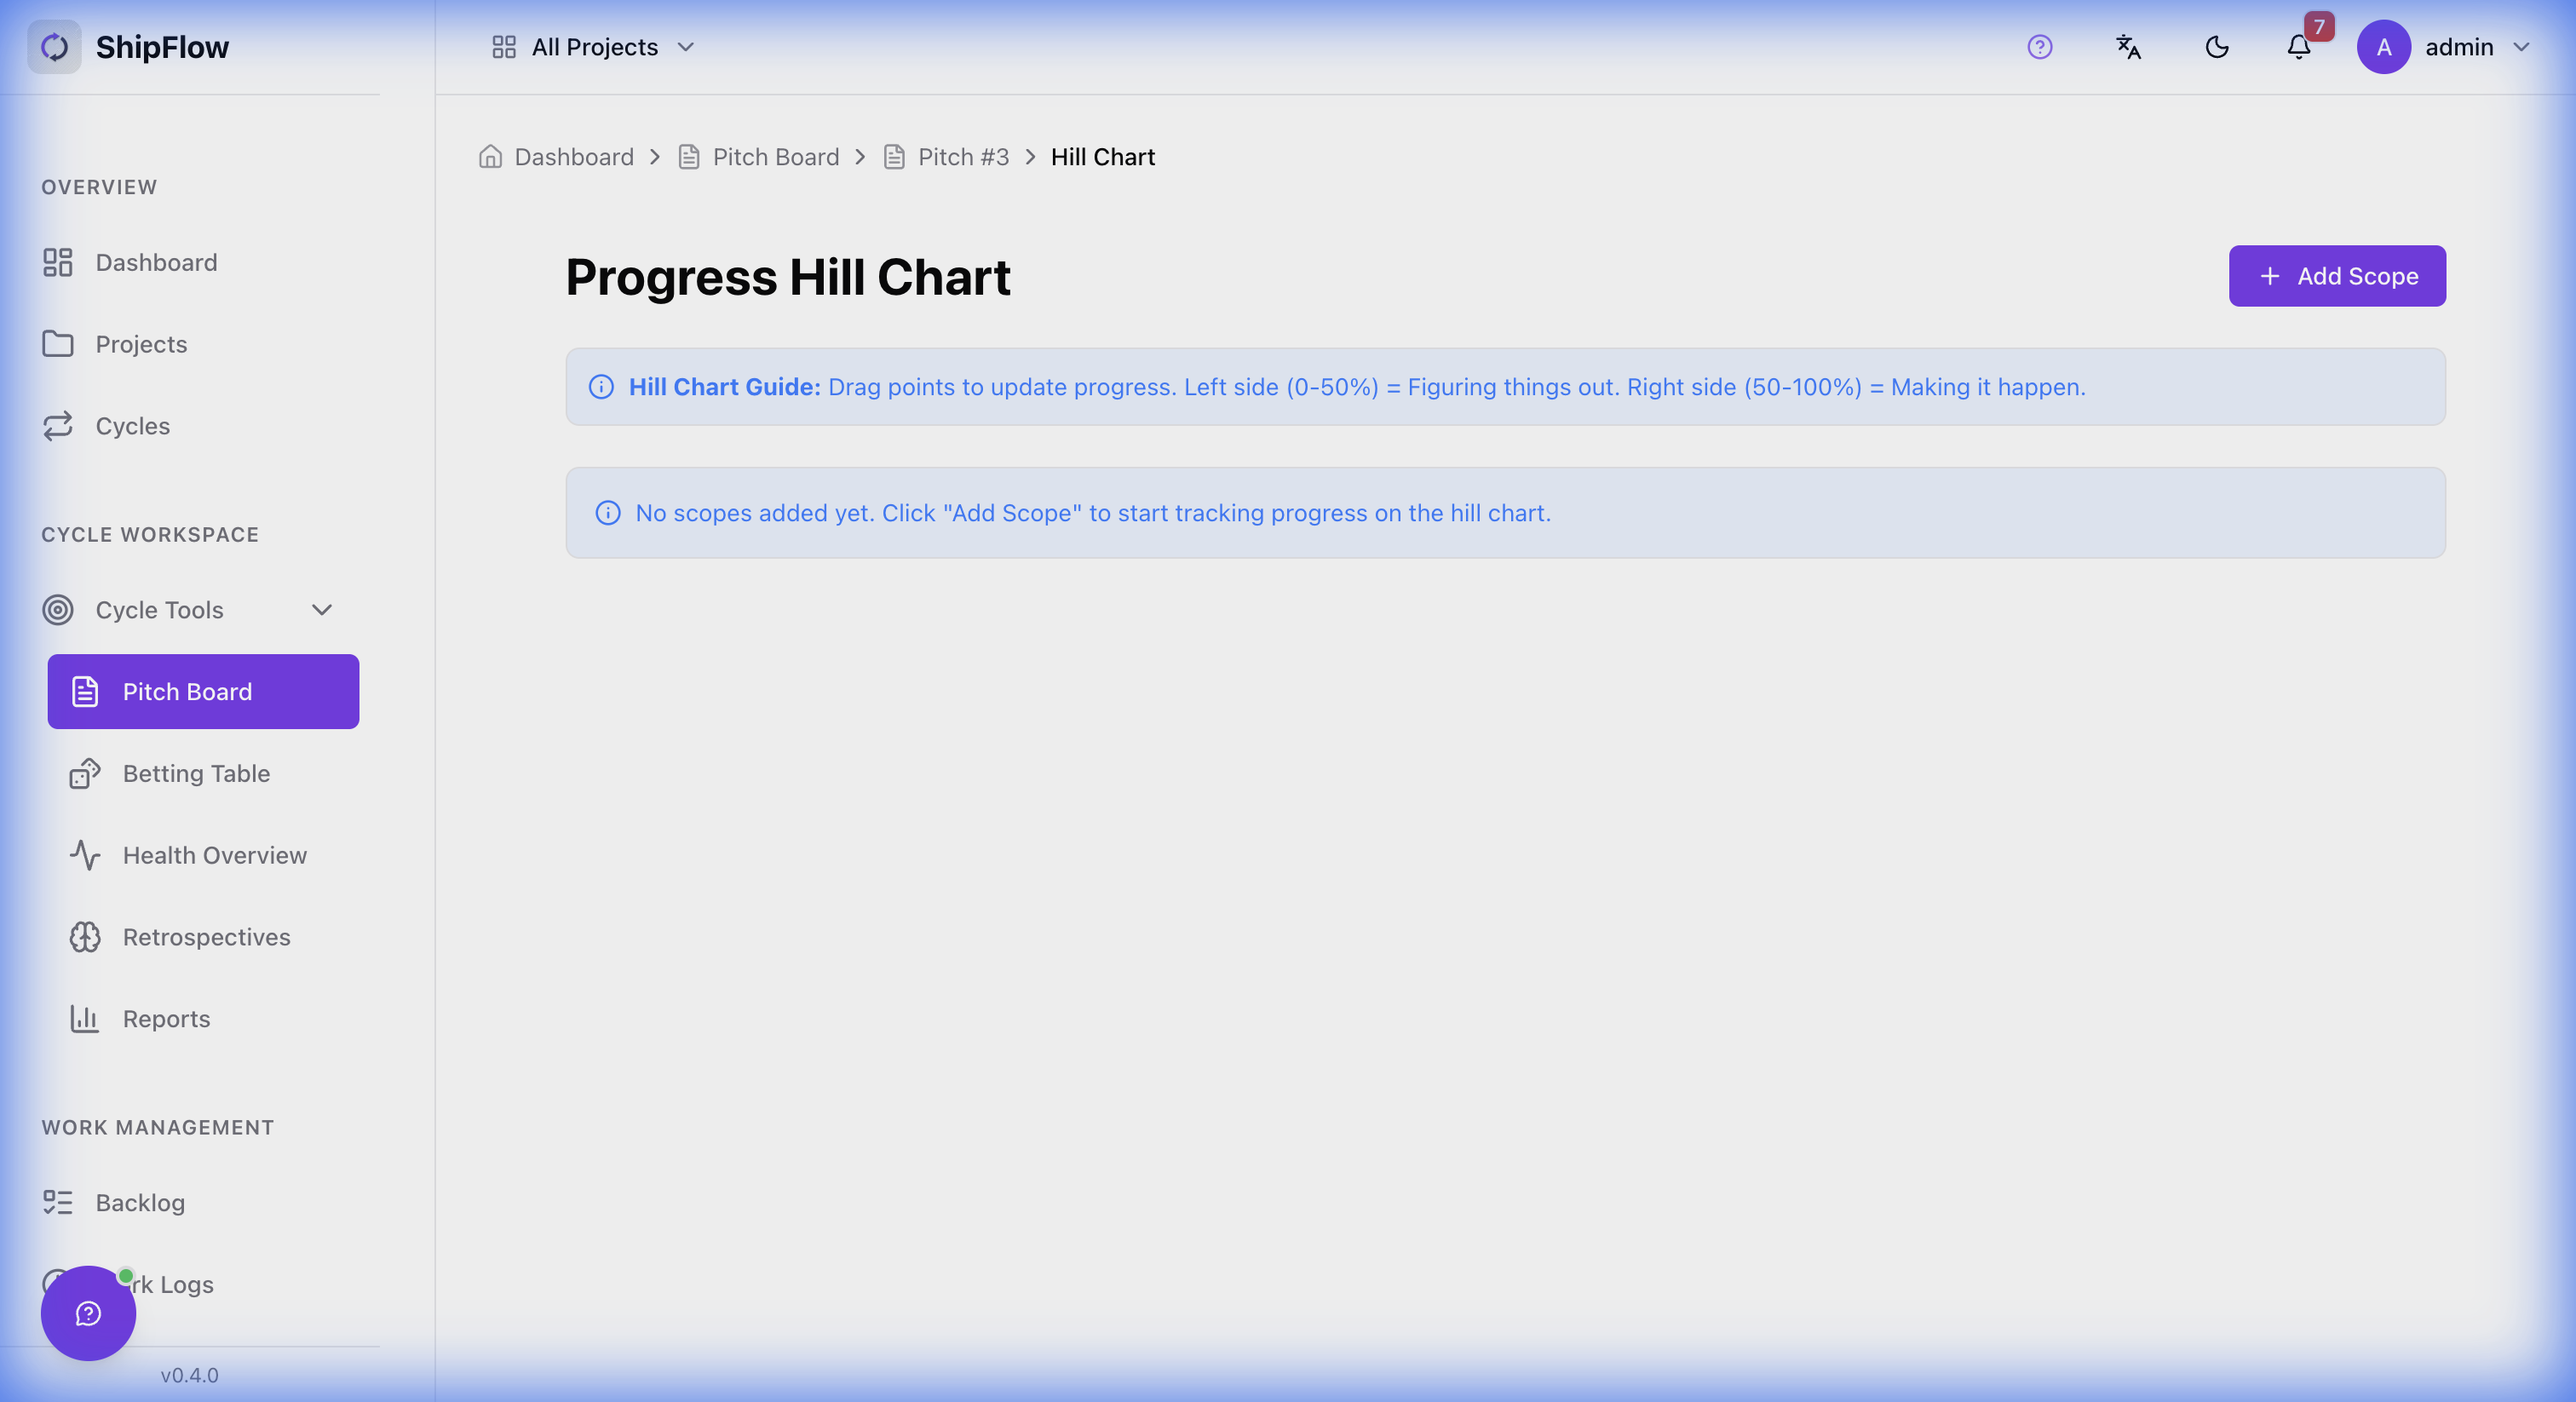
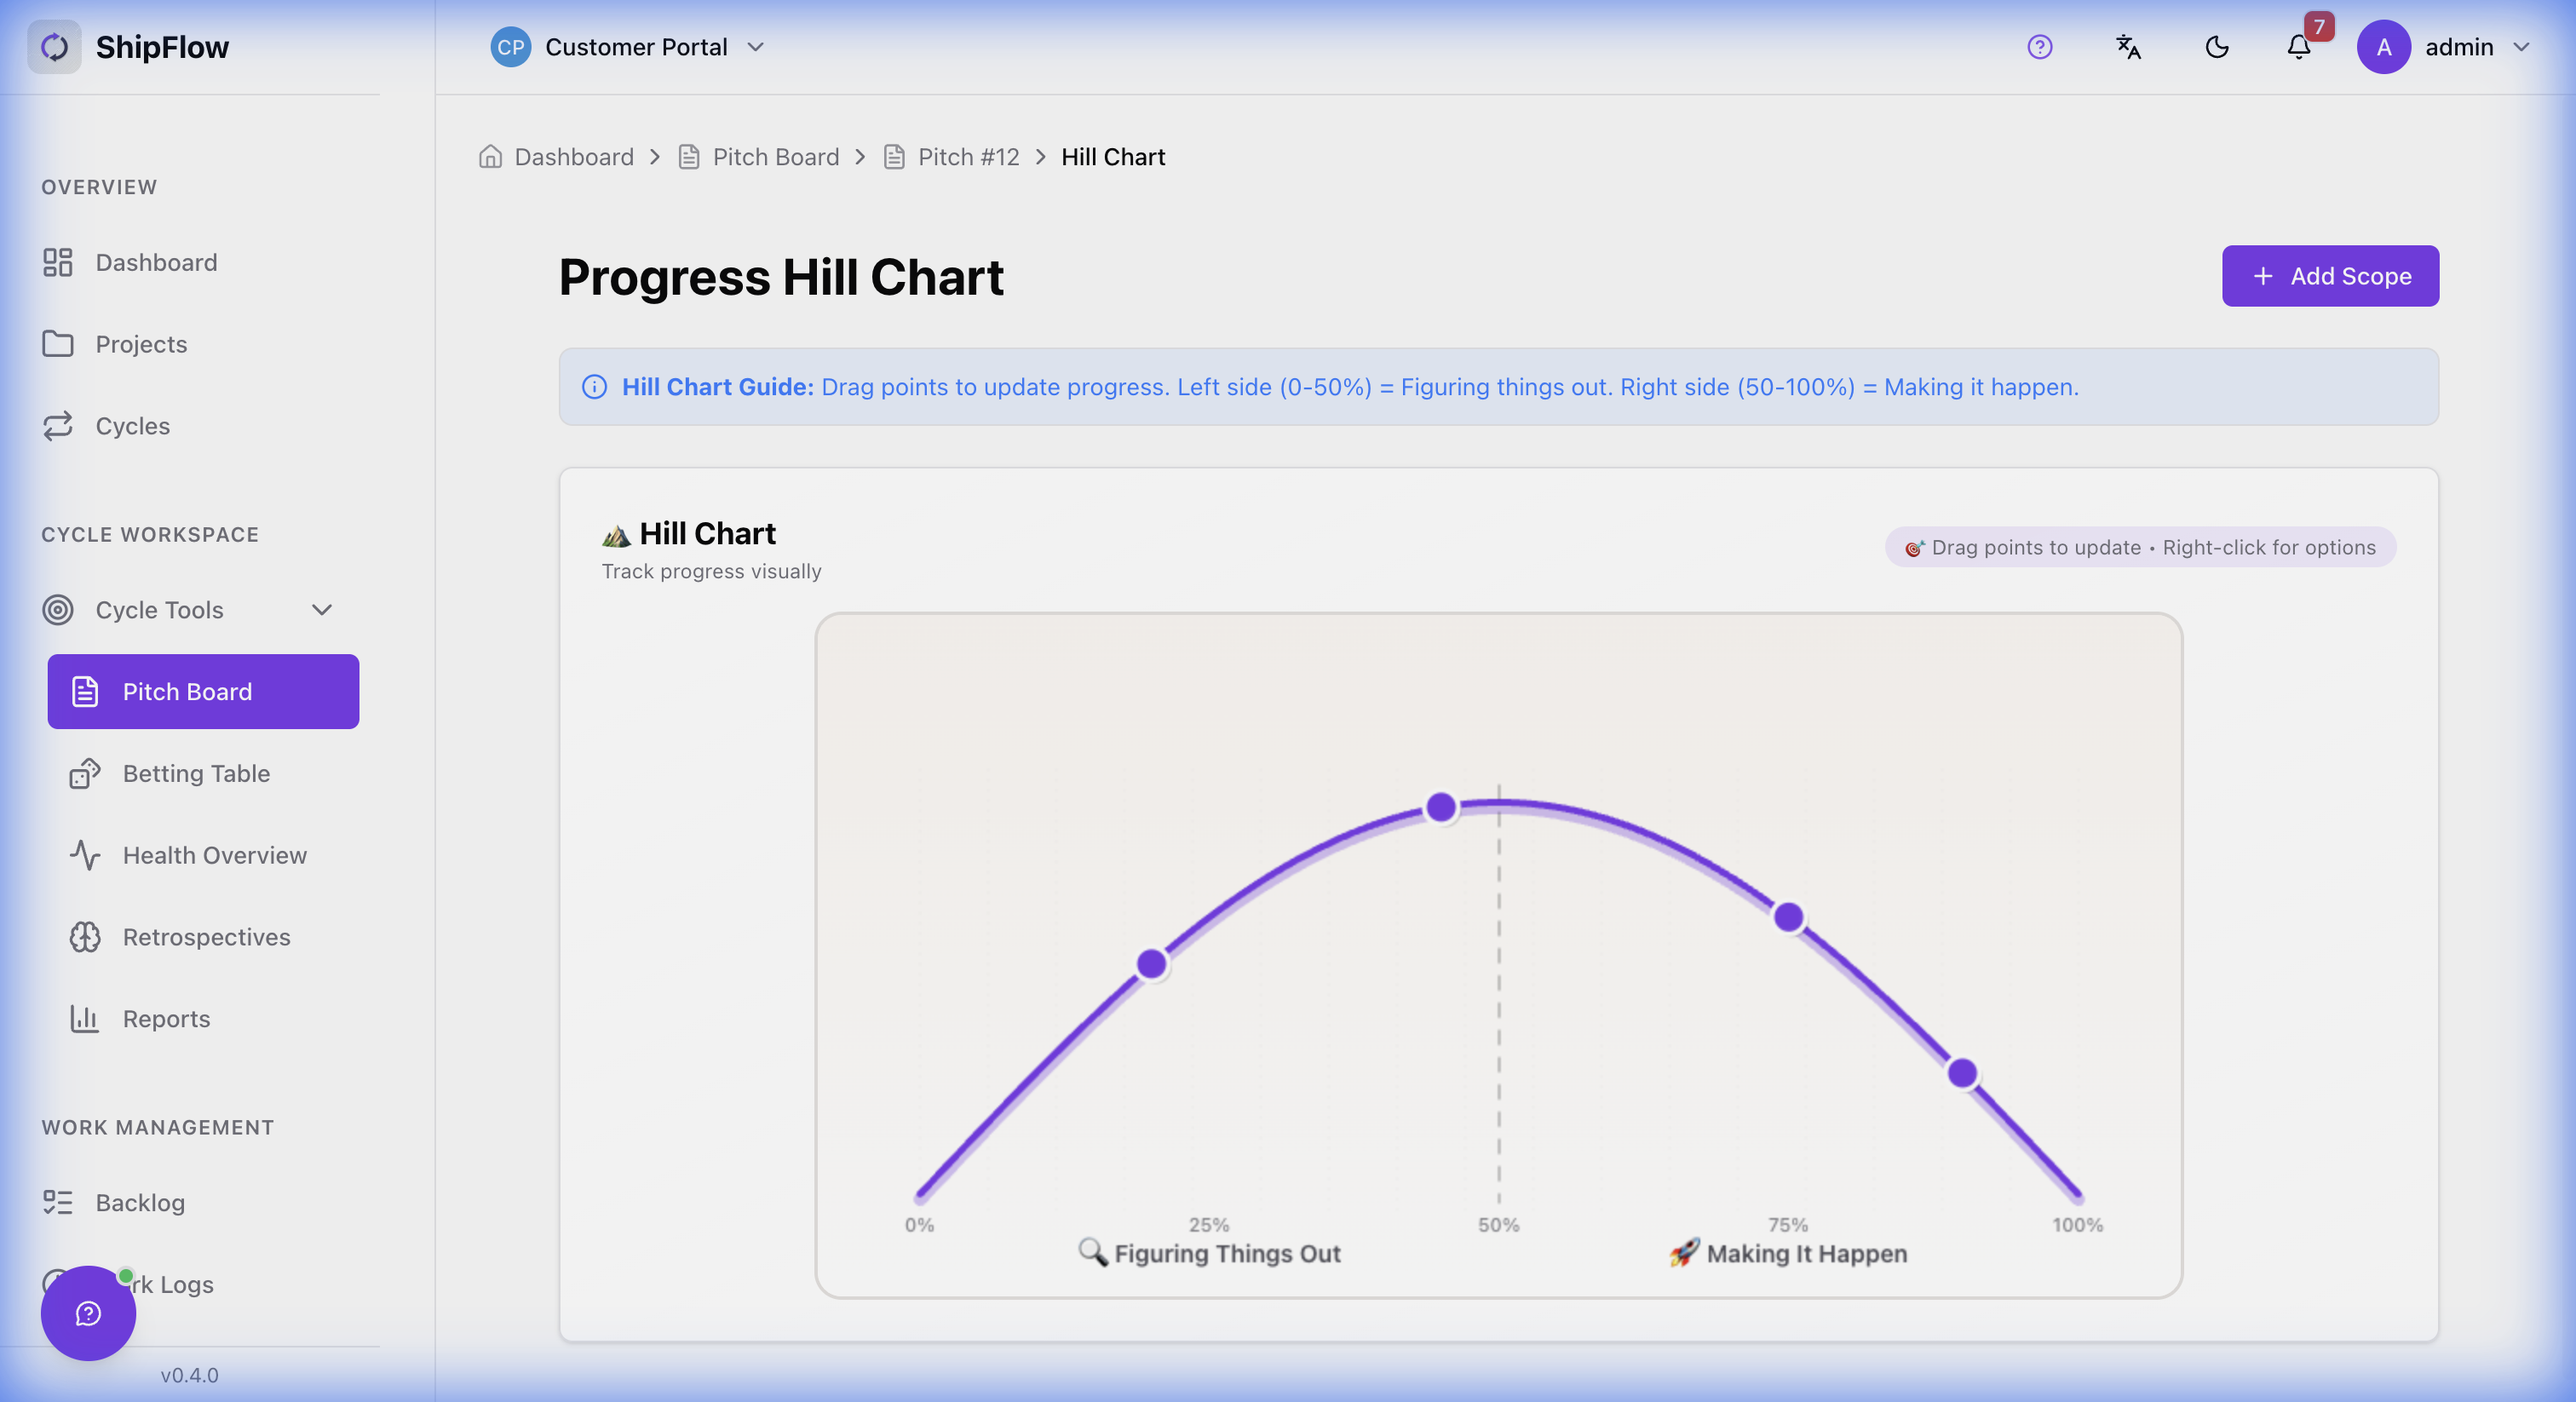
feat: add hover card functionality to HillChart for enhanced user interaction

diff --git a/frontend/src/components/HillChart.tsx b/frontend/src/components/HillChart.tsx
@@ -130,6 +130,7 @@ export const HillChart: React.FC<HillChartProps> = ({
   const [hoveredPoint, setHoveredPoint] = useState<HillChartPoint | null>(null);
   const [contextMenuPoint, setContextMenuPoint] = useState<HillChartPoint | null>(null);
   const [contextMenuPosition, setContextMenuPosition] = useState<{ x: number; y: number } | null>(null);
+  const [hoverCardPosition, setHoverCardPosition] = useState<{ x: number; y: number } | null>(null);
   
   const [animatedPositions, setAnimatedPositions] = useState<Map<number, SpringAnimation>>(new Map());
   const [pulsePhase, setPulsePhase] = useState(0);
@@ -476,6 +477,30 @@ export const HillChart: React.FC<HillChartProps> = ({
     } else {
       const point = getPointAtPosition(x, y);
       setHoveredPoint(point);
+      
+      // Calculate hover card position relative to the canvas
+      if (point) {
+        const spring = animatedPositions.get(point.id);
+        const position = spring?.current ?? point.position;
+        const pointX = getXFromPosition(position);
+        const pointY = getYFromPosition(position);
+        
+        // Convert canvas coordinates to viewport coordinates
+        const viewportX = rect.left + pointX;
+        const viewportY = rect.top + pointY;
+        
+        // Position the card below the point, or above if there's not enough space
+        const cardHeight = 200; // Approximate height of ScopeNarrative
+        const spaceBelow = window.innerHeight - viewportY;
+        const shouldShowAbove = spaceBelow < cardHeight + 40;
+        
+        setHoverCardPosition({
+          x: viewportX,
+          y: shouldShowAbove ? viewportY - cardHeight - 20 : viewportY + 30
+        });
+      } else {
+        setHoverCardPosition(null);
+      }
     }
   };
 
@@ -659,9 +684,17 @@ export const HillChart: React.FC<HillChartProps> = ({
           />
         </div>
 
-        {/* Hover info card with narrative - absolute positioned to prevent layout shift */}
-        {hoveredPoint && !draggingPoint && (
-          <div className="absolute left-1/2 -translate-x-1/2 mt-4 transition-all animate-in fade-in slide-in-from-top-2 duration-200 pointer-events-none z-10 max-w-md w-full mx-4">
+        {/* Hover info card with narrative - positioned absolutely at calculated position */}
+        {hoveredPoint && !draggingPoint && hoverCardPosition && (
+          <div 
+            className="fixed z-50 transition-all animate-in fade-in slide-in-from-top-2 duration-200 pointer-events-none"
+            style={{ 
+              left: hoverCardPosition.x,
+              top: hoverCardPosition.y,
+              transform: 'translateX(-50%)',
+              maxWidth: 'min(400px, calc(100vw - 32px))'
+            }}
+          >
             <ScopeNarrative 
               point={hoveredPoint} 
               daysSinceUpdate={Math.floor((Date.now() - new Date(hoveredPoint.updatedAt).getTime()) / (1000 * 60 * 60 * 24))}
